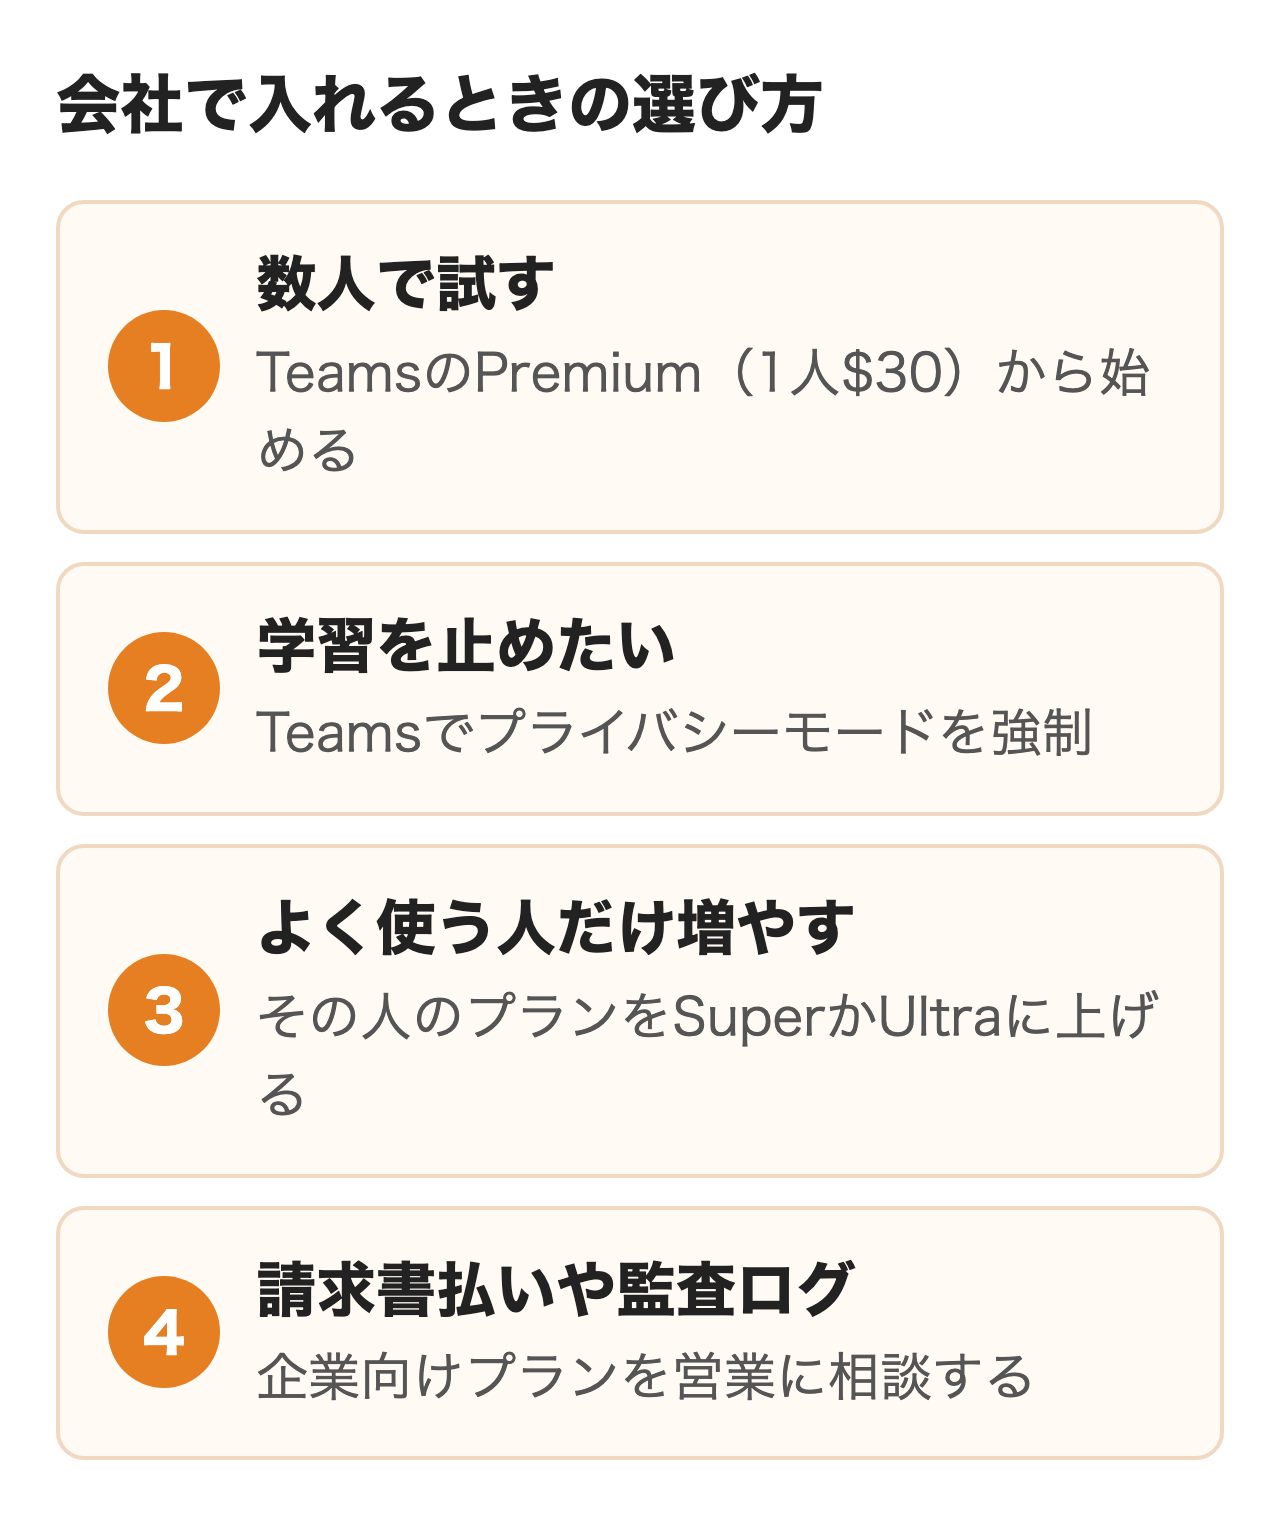
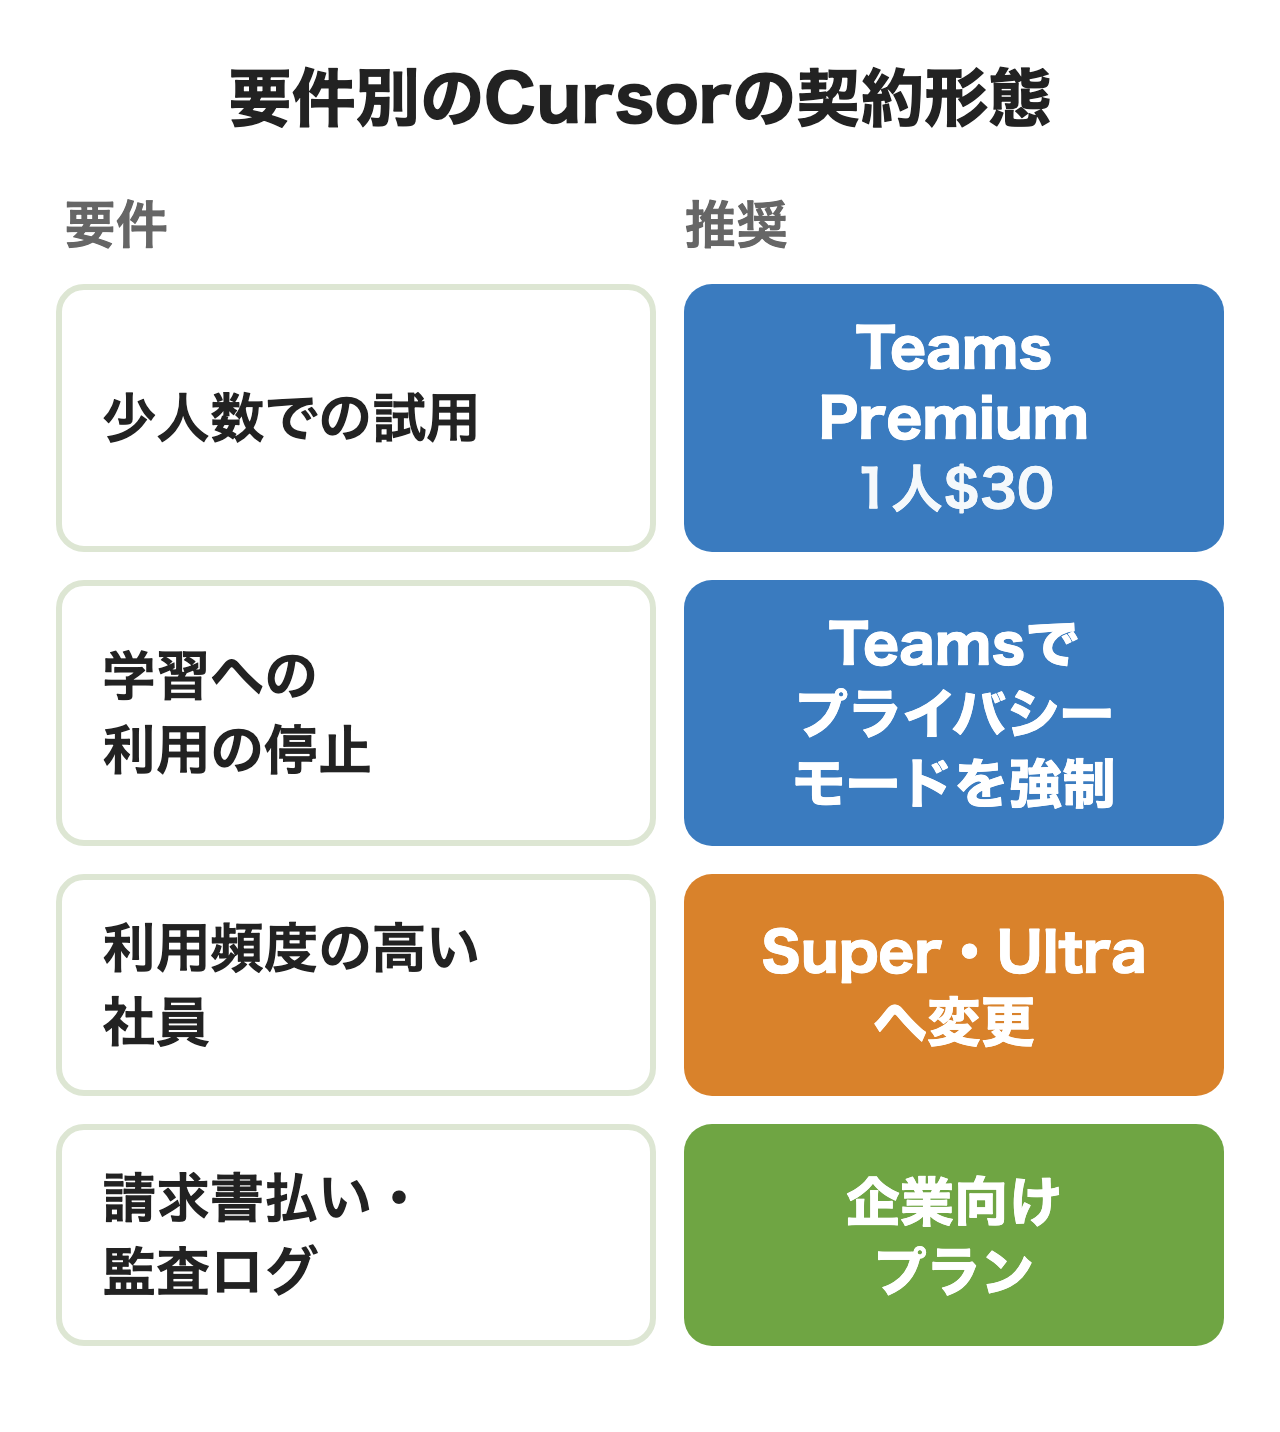
seo: 図の作り直し 2/4（claude-in-chrome・codex-vs-claude-code・cursor-guide・devin-ai・felo-ai・genspark-guide）
図の作り直し（11/12 希一さん）: 丸数字＋見出し＋1行の図は消し、関係（対応・内訳）の図だけ残して熟語に。

diff --git a/media/posts/codex-vs-claude-code.md b/media/posts/codex-vs-claude-code.md
@@ -23,7 +23,7 @@ OpenAIのCodexはChatGPTのプランに、AnthropicのClaude CodeはClaudeのプ
 
 開発チームに入れる道具を選ぶ相談で多いのは「性能はどちらが上か」という問いです。ただ両社の最新モデルの発表を読むと、互いに自社が上回る結果を発表しており、性能だけでは決め手になりません。**会社の判断を分けるのはいま全社で契約しているAIのプランと、管理者が求める統制の深さです。**
 
-<figure class="post-figure"><img src="/media/images/codex-vs-claude-code/cvc_01_overview.png" alt="CodexとClaude Codeの選び方の図。ChatGPT Businessを契約済み・GitHubのPRレビューを任せたい・少額から試したい会社はCodex、Claude Teamを契約済み・利用状況の分析をTeamのプランで見たい会社はClaude Code、両方なら書く側とレビューする側で分けて指示ファイルと権限をそろえる" loading="lazy"></figure>
+<figure class="post-figure"><img src="/media/images/codex-vs-claude-code/cvc_01_overview.png" alt="Codex・Claude Codeの使い分けの図。ChatGPT Businessを契約済み、PRレビューの自動化、少額のプランで試用ならCodex。Claude Teamを契約済み、Teamプランでの利用状況の分析ならClaude Code。併用時は実装担当とレビュー担当に分ける" loading="lazy"></figure>
 
 ChatGPT Businessを全社で入れている会社なら、Codexは追加の契約なしで開発者に開けます。Claude Teamを入れている会社なら、Claude Codeも同じ1人分の契約に含まれます。どちらも契約していない会社は、次の3つで比べると判断が早くなります。
 
@@ -122,11 +122,9 @@ OpenAIはGPT-6.1 Solの発表で、業務の自動化を測るAutomationBenchで
 
 両方を使い分ける開発者もいますが、会社で併用すると、書く側・指示ファイル・権限・費用の上限と決めることが増えます。
 
-<figure class="post-figure"><img src="/media/images/codex-vs-claude-code/cvc_02_split.png" alt="併用するときの分担の例。①主に書く側を1つ決めて日々の実装を任せる、②もう一方は別のモデルの目で差分を確かめるレビューに使う、③AGENTS.mdに共通の約束を1か所だけ置く（Claude Codeもそのまま読む）、④承認の範囲と月の上限を両方でそろえる" loading="lazy"></figure>
-
 ### 書く側とレビューする側を分ける
 
-よく使われる分け方は、日々の実装を片方に任せ、もう片方に差分をレビューさせる形です。別のモデルの目で差分を見るためです。CodexはGitHubで@codexと書けばプルリクエストのレビューを頼めるので、レビュー役に置きやすいでしょう。**全員に両方の上位プランを配るのではなく、主に書く側の契約を厚くし、レビュー側は少ない量のプランで足りるかを試すのがおすすめです。**
+よく使われる分け方は日々の実装を片方に任せ、もう片方に差分をレビューさせる形です。別のモデルの目で差分を見るためです。CodexはGitHubで@codexと書けばプルリクエストのレビューを頼めるので、レビュー役に置きやすいでしょう。**全員に両方の上位プランを配るのではなく、主に書く側の契約を厚くし、レビュー側は少ない量のプランで足りるかを試すのがおすすめです。**
 
 ### 指示ファイルを1つにまとめる
 

diff --git a/media/posts/cursor-guide.md b/media/posts/cursor-guide.md
@@ -23,7 +23,7 @@ AIを組み込んだコードエディタのCursorは、2026年10月12日からG
 
 Cursorを開発するAnysphereは、今はSpaceXSIと同じ会社のグループにあり、10月12日の発表でGrok・Grok Bot・Cursor・X Premiumを1つの契約にまとめました。**月額で払うのは同じでも、使える量の数え方と他社モデルの扱いが変わっています。**
 
-<figure class="post-figure"><img src="/media/images/cursor-guide/cur1108_01_overview.png" alt="Cursorの月々の支払いの図。①プランの月額（Plus $8・Premium $30・Super $100・Ultra $200、Teamsは1人$30・$100・$200）に、②前払いクレジットから引く分（週の枠を超えたGrokとComposer、ClaudeやGPTなど他社のモデル）が加わる。税別のドルで、Teamsの他社モデルには100万トークンあたり$0.25が上乗せされる" loading="lazy"></figure>
+<figure class="post-figure"><img src="/media/images/cursor-guide/cur1108_01_overview.png" alt="Cursorの月額費用の内訳の図。固定費はプランの月額で$8〜$200（Teamsは1人$30〜）、変動費は前払いクレジットで週の枠の超過分と他社のモデルの利用分。金額は税別の米ドル" loading="lazy"></figure>
 
 変わった点は3つあります。
 
@@ -120,7 +120,7 @@ grok.comの請求画面の「Additional usage credits」で、月の追加使用
 
 **Teamsで足りる会社と企業向けが要る会社の境目は、SCIMでのアカウント管理・監査ログ・請求書払いが要るかどうかです。**退職者のアカウントを自動で止めたい、操作の記録を残したい、カード払いができない、のどれかに当たるなら、最初から営業に相談したほうが早く進みます。
 
-<figure class="post-figure"><img src="/media/images/cursor-guide/cur1108_02_choose.png" alt="会社で入れるときの選び方。1 数人で試すならTeamsのPremium（1人$30）から、2 学習を止めたいならTeamsでプライバシーモードを強制、3 よく使う人だけそのプランをSuperかUltraに上げる、4 請求書払いや監査ログが要るなら企業向けプランを営業に相談" loading="lazy"></figure>
+<figure class="post-figure"><img src="/media/images/cursor-guide/cur1108_02_choose.png" alt="要件別のCursorの契約形態の図。少人数での試用はTeamsのPremium（1人$30）、学習への利用の停止はTeamsでプライバシーモードを強制、利用頻度の高い社員はSuper・Ultraへ変更、請求書払いと監査ログは企業向けプラン" loading="lazy"></figure>
 
 <figure class="post-figure"><img src="/media/images/cursor-guide/cur1108_04_team.png" alt="Cursorの料金ページの比較表のチーム管理の行。TeamsはSSOとチーム全体のプライバシー設定まで、請求書払い・SCIM・監査ログは企業向けにだけ付く" loading="lazy"><figcaption>料金ページの比較表のチーム管理の行（2026年11月8日）</figcaption></figure>
 
